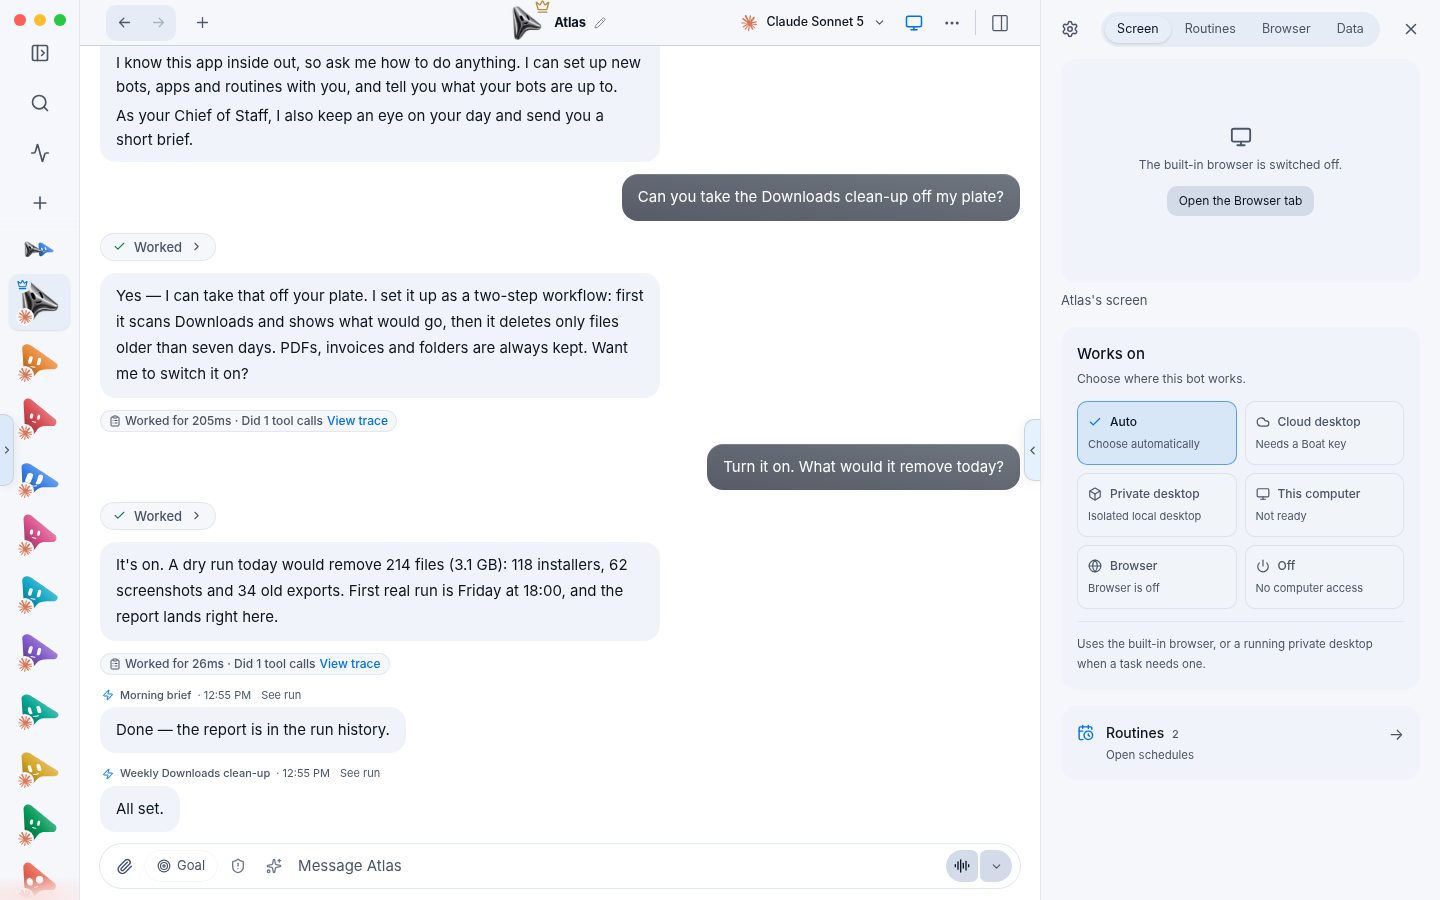
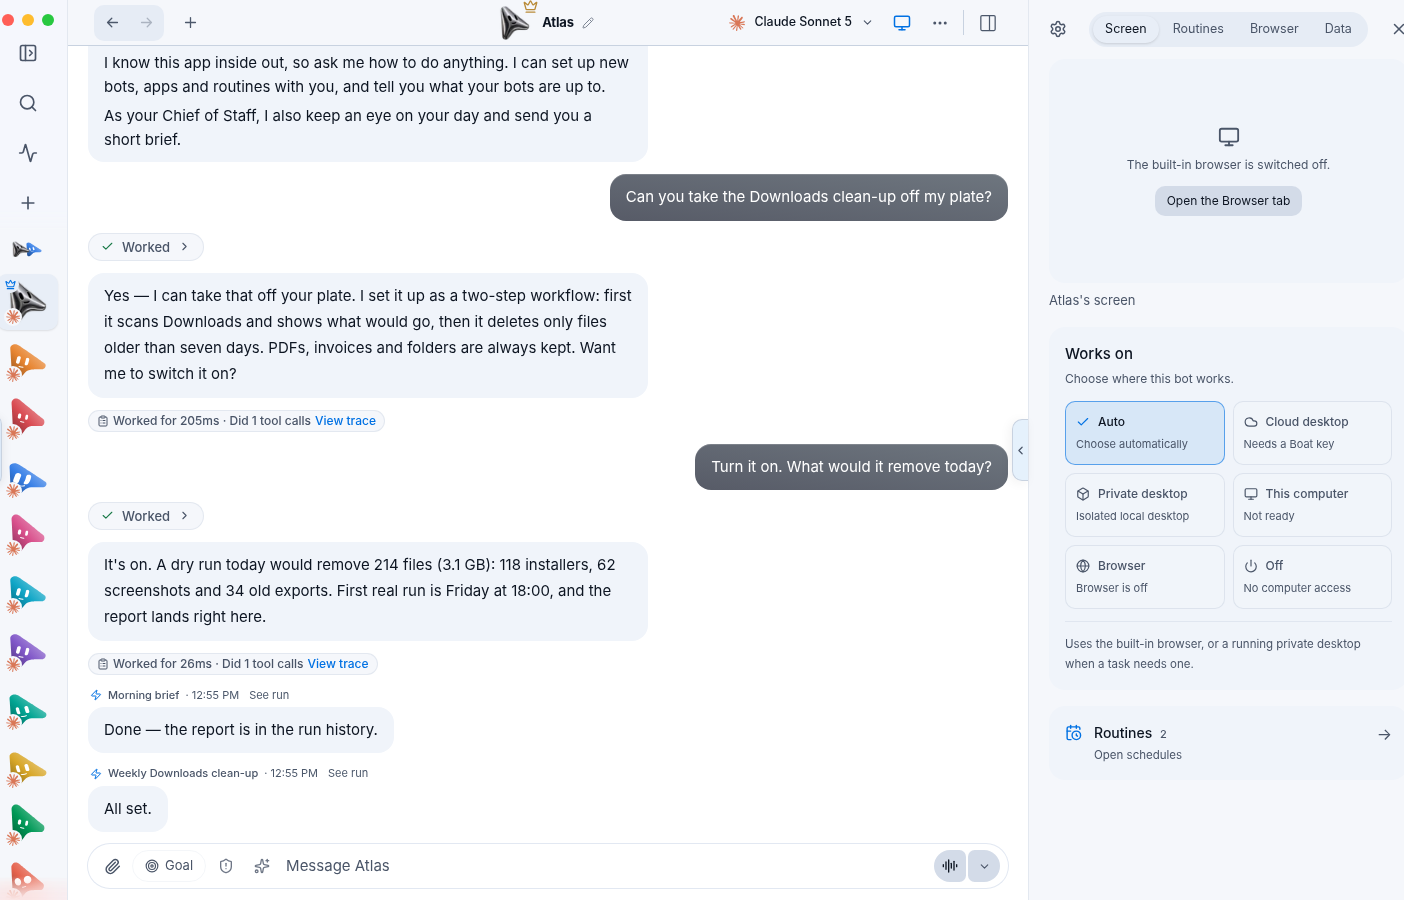
docs(readme): trim screenshot edges and make the prototype work on phones

diff --git a/docs/prototypes/readme-mimirbot.html b/docs/prototypes/readme-mimirbot.html
@@ -4,6 +4,7 @@
 <meta charset="utf-8">
 <meta name="viewport" content="width=device-width, initial-scale=1">
 <title>MimirBot — a workspace of agents</title>
+<link rel="icon" href="../../public/app-icon.svg">
 <meta name="description" content="MimirBot is a local-first workspace of AI agents: departments, routines, workflows, shared memory and a computer for every bot.">
 <style>
   :root {
@@ -15,7 +16,7 @@
     --faint: #8494a7;
     --line: #dbe4ef;
     --line-soft: #e8eef6;
-    --blue: #0a7cff;
+    --blue: #0068d9;
     --blue-ink: #064f9e;
     --blue-soft: #eaf3ff;
     --mint: #1f9d62;
@@ -72,14 +73,19 @@
     height: 40px; padding: 0 18px; border-radius: 10px;
     background: var(--blue); color: #fff; text-decoration: none; font-size: 14px; font-weight: 600;
     border: 1px solid transparent; cursor: pointer;
-    box-shadow: 0 1px 0 rgba(255,255,255,.25) inset, 0 6px 14px -8px rgba(10, 124, 255, .8);
+    box-shadow: 0 1px 0 rgba(255,255,255,.25) inset, 0 6px 14px -8px rgba(0, 104, 217, .8);
     transition: background .18s ease, transform .18s ease;
   }
-  .btn:hover { background: #006fe8; color: #fff; }
+  .btn:hover { background: #005fc7; color: #fff; }
   .btn:active { transform: translateY(1px); }
   .btn.secondary { background: var(--panel); color: var(--ink); border-color: var(--line); box-shadow: none; }
   .btn.secondary:hover { border-color: #b9c9dc; background: #fbfdff; }
   .btn.small { height: 34px; padding: 0 13px; font-size: 13px; }
+  .menu-btn { display: none; align-items: center; justify-content: center; height: 36px; padding: 0 12px; border: 1px solid var(--line); border-radius: 9px; background: var(--panel); color: var(--ink-2); font-size: 13px; font-weight: 600; cursor: pointer; }
+  .menu-btn:hover { background: #f2f7fd; }
+  .mobile-nav { display: none; }
+  .mobile-nav[hidden] { display: none !important; }
+  [hidden] { display: none !important; }
 
   /* ---------- dot canvas ---------- */
   .canvas {
@@ -247,7 +253,8 @@
   .note { margin-top: 14px; color: var(--muted); font-size: 12.5px; line-height: 1.55; }
 
   /* ---------- capability ---------- */
-  .cap { margin-top: 36px; border: 1px solid var(--line); border-radius: 12px; overflow: auto; background: #fff; }
+  .cap { margin-top: 36px; border: 1px solid var(--line); border-radius: 12px; overflow: auto; background: #fff; -webkit-overflow-scrolling: touch; }
+  .table-hint { display: none; margin: 0 2px 10px; color: var(--blue-ink); font-size: 12.5px; font-weight: 600; }
   table.cap-table { width: 100%; border-collapse: collapse; font-size: 13px; min-width: 620px; }
   .cap-table th, .cap-table td { text-align: left; padding: 11px 15px; border-bottom: 1px solid var(--line-soft); vertical-align: top; }
   .cap-table th { font-size: 11.5px; color: var(--muted); font-weight: 600; background: #f8fafd; }
@@ -317,6 +324,7 @@
     .nav { display: none; }
     .top-actions .ghost-link { display: none; }
     .hero { padding-top: 44px; }
+    .table-hint { display: block; }
     section { padding: 60px 0; }
     .section-head { display: block; }
     .section-head p { margin-top: 12px; }
@@ -334,8 +342,19 @@
     .install span { grid-column: 1 / -1; }
     footer.site .right { margin-left: 0; }
   }
+  @media (max-width: 700px) {
+    dialog.lightbox { width: calc(100vw - 16px); max-height: calc(100vh - 16px); }
+    .lb-head { padding: 12px; gap: 10px; }
+    .lb-head p::after { content: " Scroll to pan the full screenshot."; color: var(--ink-2); }
+    .lb-body { max-height: calc(100vh - 108px); overflow: auto; -webkit-overflow-scrolling: touch; }
+    .lb-body img { width: 900px; max-width: none; }
+  }
   @media (max-width: 520px) {
     h1 { font-size: 40px; }
+    .menu-btn { display: inline-flex; }
+    .mobile-nav { display: block; position: fixed; z-index: 45; top: 64px; left: 12px; right: 12px; padding: 8px; background: var(--panel); border: 1px solid var(--line); border-radius: 12px; box-shadow: 0 18px 40px -20px rgba(13,30,54,.4); }
+    .mobile-nav a { display: block; padding: 10px 12px; border-radius: 8px; color: var(--ink-2); text-decoration: none; font-size: 14px; }
+    .mobile-nav a:hover { background: var(--blue-soft); }
     .hero-actions .btn { width: 100%; }
     .float-card { position: static; width: auto; margin-top: 12px; border-radius: 10px; }
     .chrome .tab { display: none; }
@@ -363,9 +382,17 @@
     </nav>
     <div class="top-actions">
       <a class="ghost-link" href="https://github.com/Oliveir4Matheus/mimirbot" target="_blank" rel="noreferrer">GitHub</a>
+      <button class="menu-btn" id="menu-btn" type="button" aria-expanded="false" aria-controls="mobile-nav">Menu</button>
       <a class="btn" href="https://github.com/Oliveir4Matheus/mimirbot/releases/latest" target="_blank" rel="noreferrer">Download</a>
     </div>
   </div>
+  <nav class="mobile-nav" id="mobile-nav" aria-label="Sections" hidden>
+    <a href="#why">Why MimirBot</a>
+    <a href="#features">Features</a>
+    <a href="#how">How it works</a>
+    <a href="#quickstart">Get started</a>
+    <a href="https://github.com/Oliveir4Matheus/mimirbot" target="_blank" rel="noreferrer">GitHub</a>
+  </nav>
 </header>
 
 <main id="main">
@@ -608,6 +635,7 @@ pnpm dev:desktop</pre>
         <div><span class="eyebrow">Status</span><h2>Beta, with the guardrails visible</h2></div>
         <p>The loop works end to end. Windows and Ubuntu x64 have published builds; macOS builds from source. Wayland host control stays disabled while the safety gate is open.</p>
       </div>
+      <p class="table-hint">Scroll to see every platform →</p>
       <div class="cap">
         <table class="cap-table">
           <thead><tr><th>Capability</th><th>Windows</th><th>macOS</th><th>Ubuntu Xorg</th><th>Ubuntu Wayland</th></tr></thead>
@@ -690,6 +718,27 @@ pnpm dev:desktop</pre>
     dialog.addEventListener("click", (event) => {
       if (event.target === dialog) dialog.close();
     });
+
+    const menuBtn = document.getElementById("menu-btn");
+    const mobileNav = document.getElementById("mobile-nav");
+    if (menuBtn && mobileNav) {
+      menuBtn.addEventListener("click", () => {
+        const open = mobileNav.hidden;
+        mobileNav.hidden = !open;
+        menuBtn.setAttribute("aria-expanded", String(open));
+      });
+      mobileNav.querySelectorAll("a").forEach((link) => link.addEventListener("click", () => {
+        mobileNav.hidden = true;
+        menuBtn.setAttribute("aria-expanded", "false");
+      }));
+      document.addEventListener("keydown", (event) => {
+        if (event.key === "Escape" && !mobileNav.hidden) {
+          mobileNav.hidden = true;
+          menuBtn.setAttribute("aria-expanded", "false");
+          menuBtn.focus();
+        }
+      });
+    }
 
     const copy = document.getElementById("copy");
     copy.addEventListener("click", async () => {
